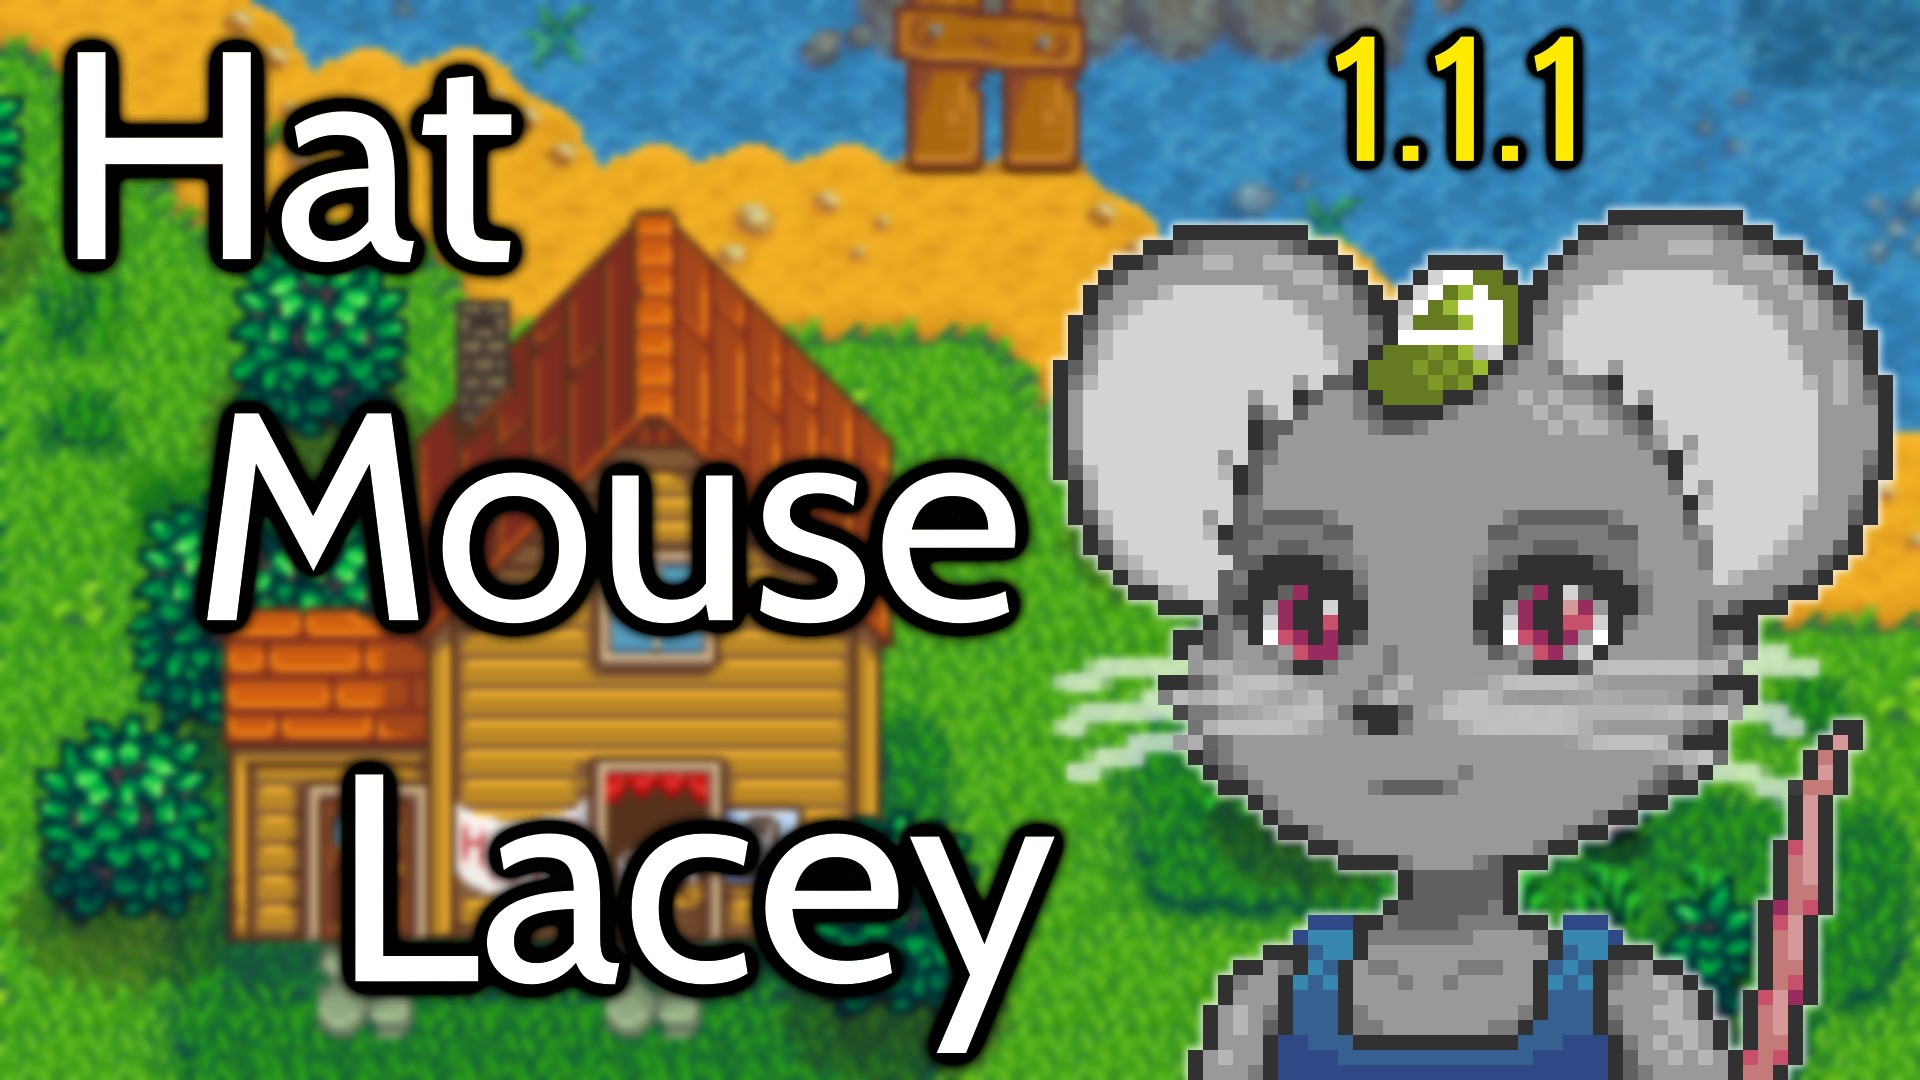
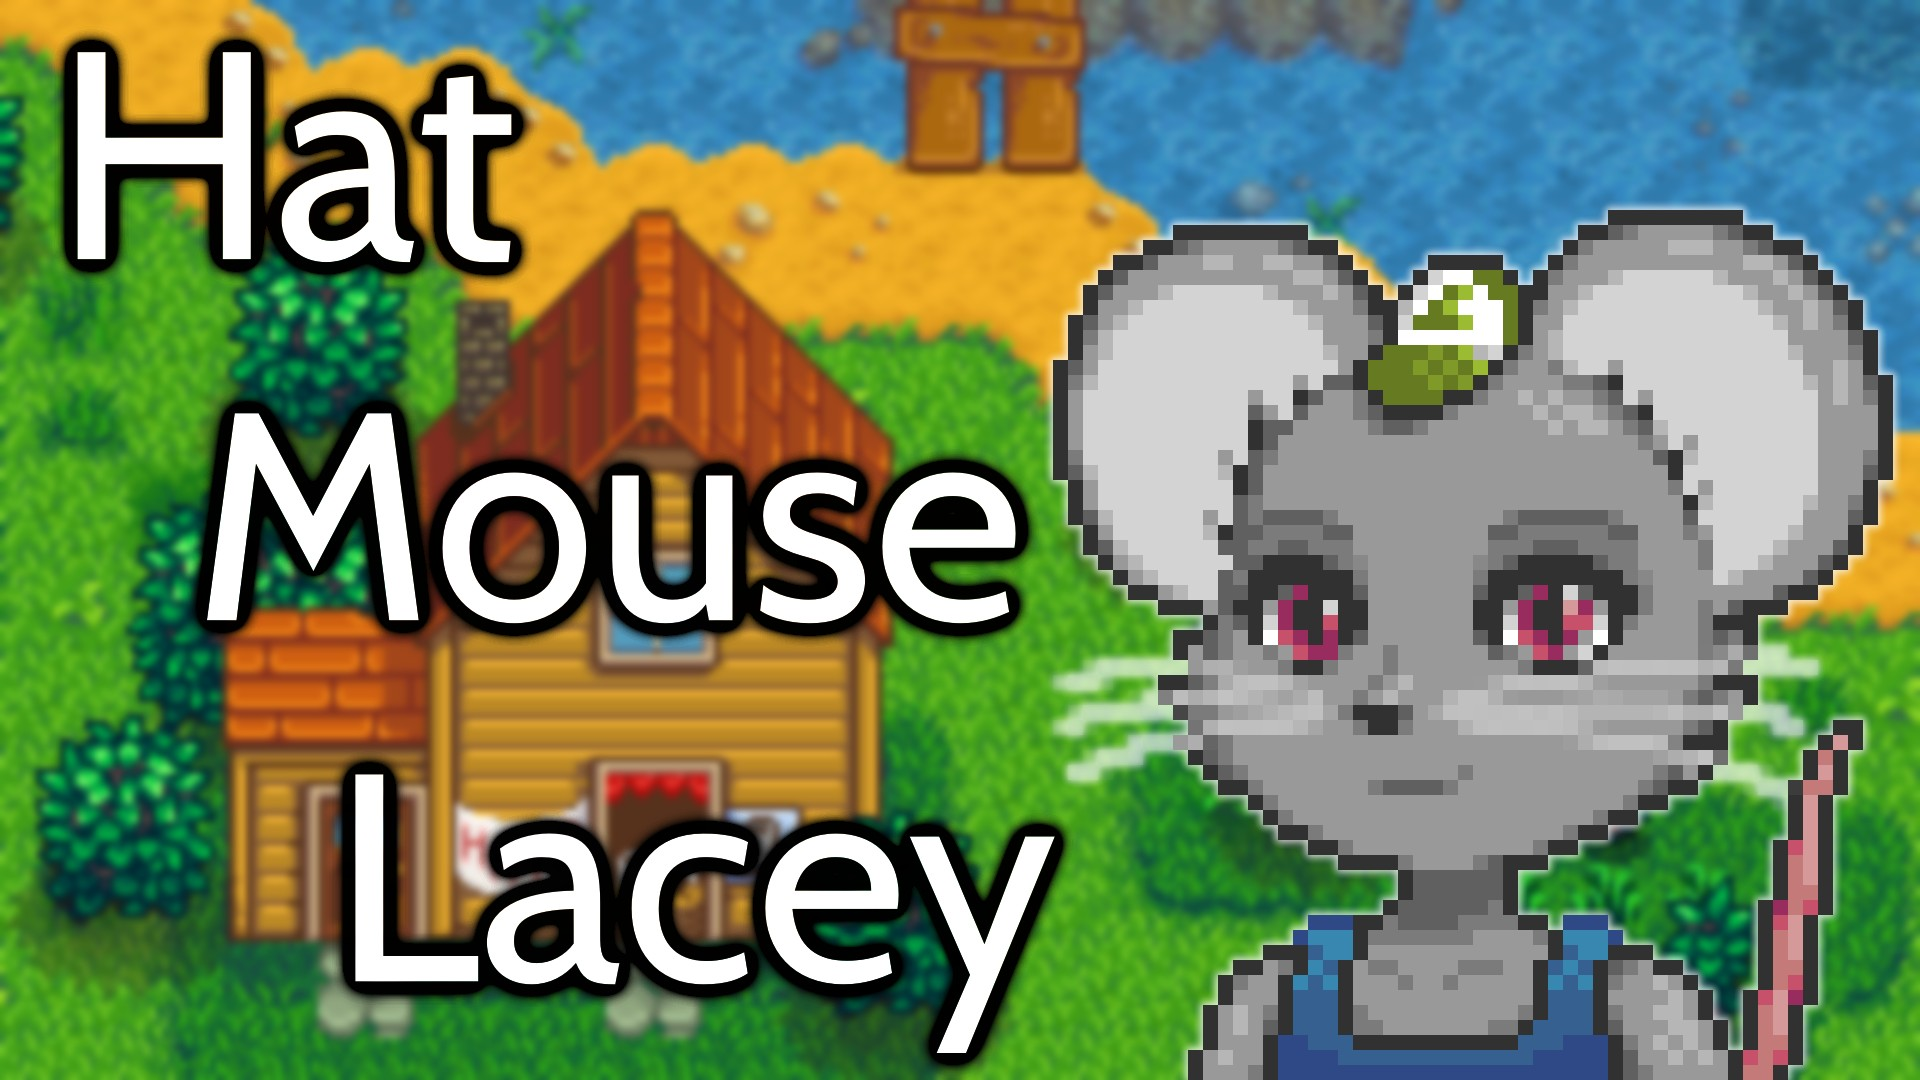
(Late) Update hero image and touch up README. Commit spritesheet xcf.

Changed region(s): [[0.6875, 0.0, 0.8438, 0.1833]]

diff --git a/docs/README.md b/docs/README.md
@@ -107,7 +107,7 @@ More config settings may be added in future releases.
 
 ## Roadmap
 * ~~`1.0`: Initial release.~~
-* `1.1`: Current release. Now on 1.1.1.
+* `1.1`: Current release.
 * `1.6`: Update the mod to work with Stardew Valley 1.6.\
 Since 1.6 is now imminent, this milestone now takes priority over additional
 content. If I have time for incremental content updates, they may see backports
